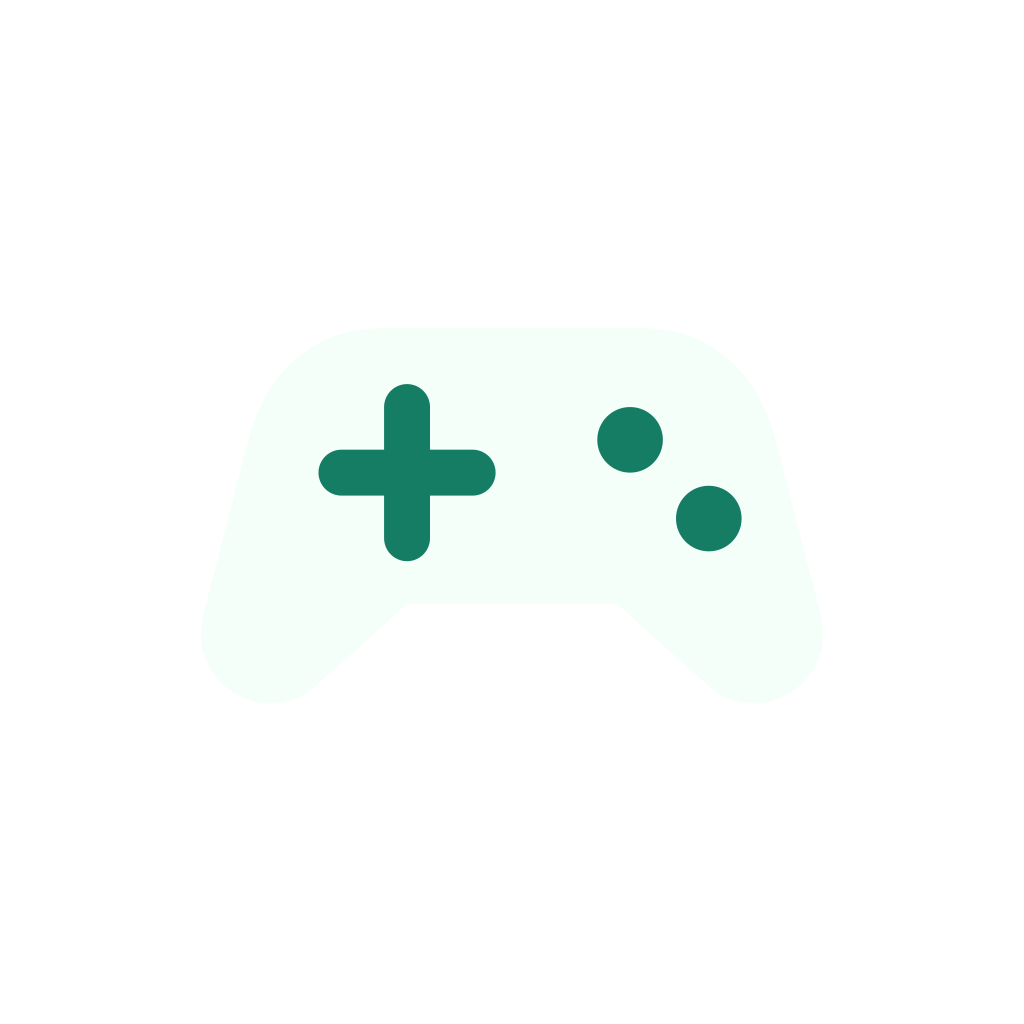
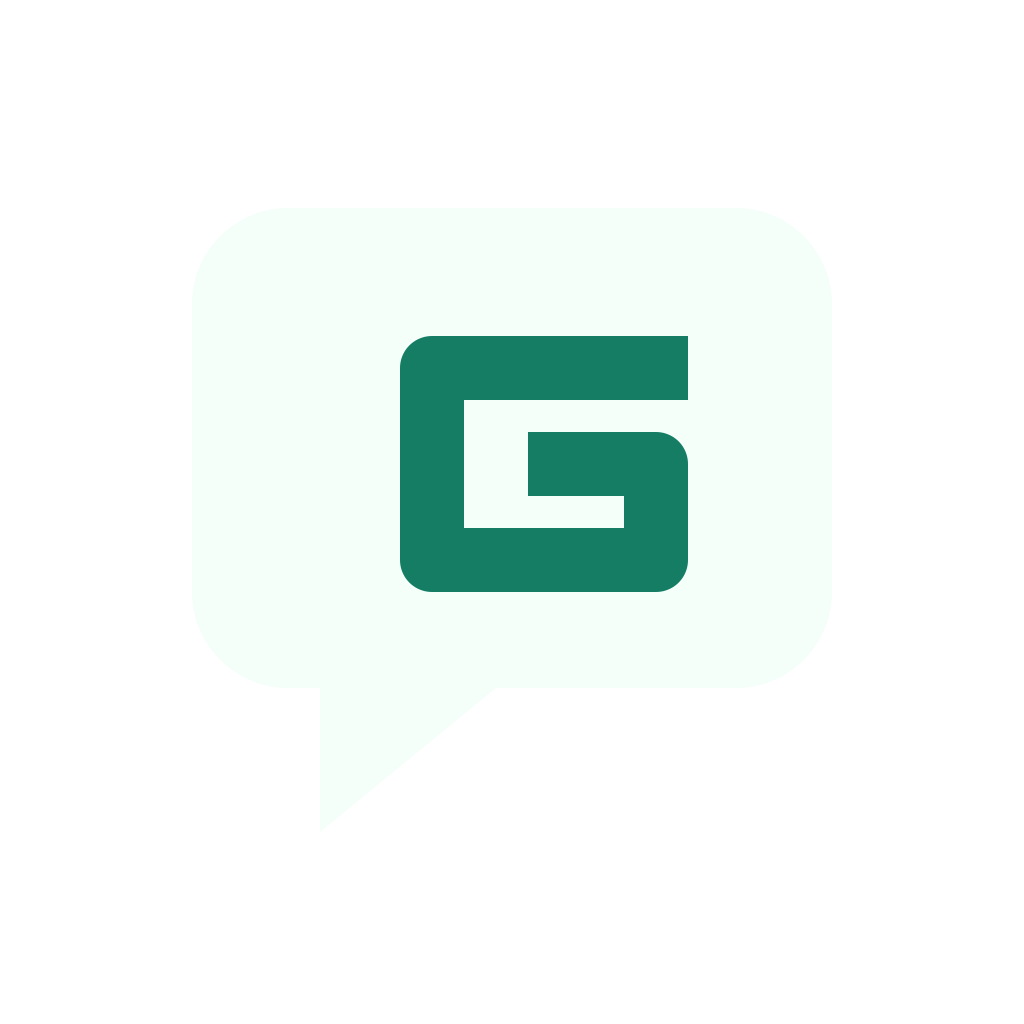
feat(game-feedback): 말풍선과 G로 서비스 로고를 바꾼다

Changed region(s): [[0.3125, 0.3125, 0.75, 0.5938]]

diff --git a/projects/game-feedback/apps/web/src/_app/seo/ShareImage.tsx b/projects/game-feedback/apps/web/src/_app/seo/ShareImage.tsx
@@ -15,15 +15,18 @@ export function createShareImage() {
       }}
     >
       <svg width="130" height="130" viewBox="0 0 64 64">
-        <g transform="translate(0 -3)">
-          <path
-            d="M22 21h20c5 0 8.6 3.2 10 8.2l3.5 13.5c1.4 5.4-4.7 9-8.6 5.5L40 42H24l-6.9 6.2c-3.9 3.5-10-.1-8.6-5.5L12 29.2C13.4 24.2 17 21 22 21Z"
-            fill="#f4fff9"
-          />
-          <path d="M19 32h10M24 27v10" fill="none" stroke="#147d64" strokeWidth="3.5" strokeLinecap="round" />
-          <circle cx="41" cy="29.5" r="2.5" fill="#147d64" />
-          <circle cx="47" cy="35.5" r="2.5" fill="#147d64" />
-        </g>
+        <path
+          d="M18 13h28a6 6 0 0 1 6 6v18a6 6 0 0 1-6 6H31L20 52v-9h-2a6 6 0 0 1-6-6V19a6 6 0 0 1 6-6Z"
+          fill="#f4fff9"
+        />
+        <path
+          d="M41 23H27v12h14v-6h-6"
+          fill="none"
+          stroke="#147d64"
+          strokeWidth="4"
+          strokeLinejoin="round"
+          strokeLinecap="square"
+        />
       </svg>
       <div style={{ display: 'flex', color: '#d0f2e6', fontSize: 30, marginBottom: 32 }}>BAMBYUL</div>
       <div style={{ display: 'flex', fontSize: 92, fontWeight: 700 }}>Game Mate</div>
